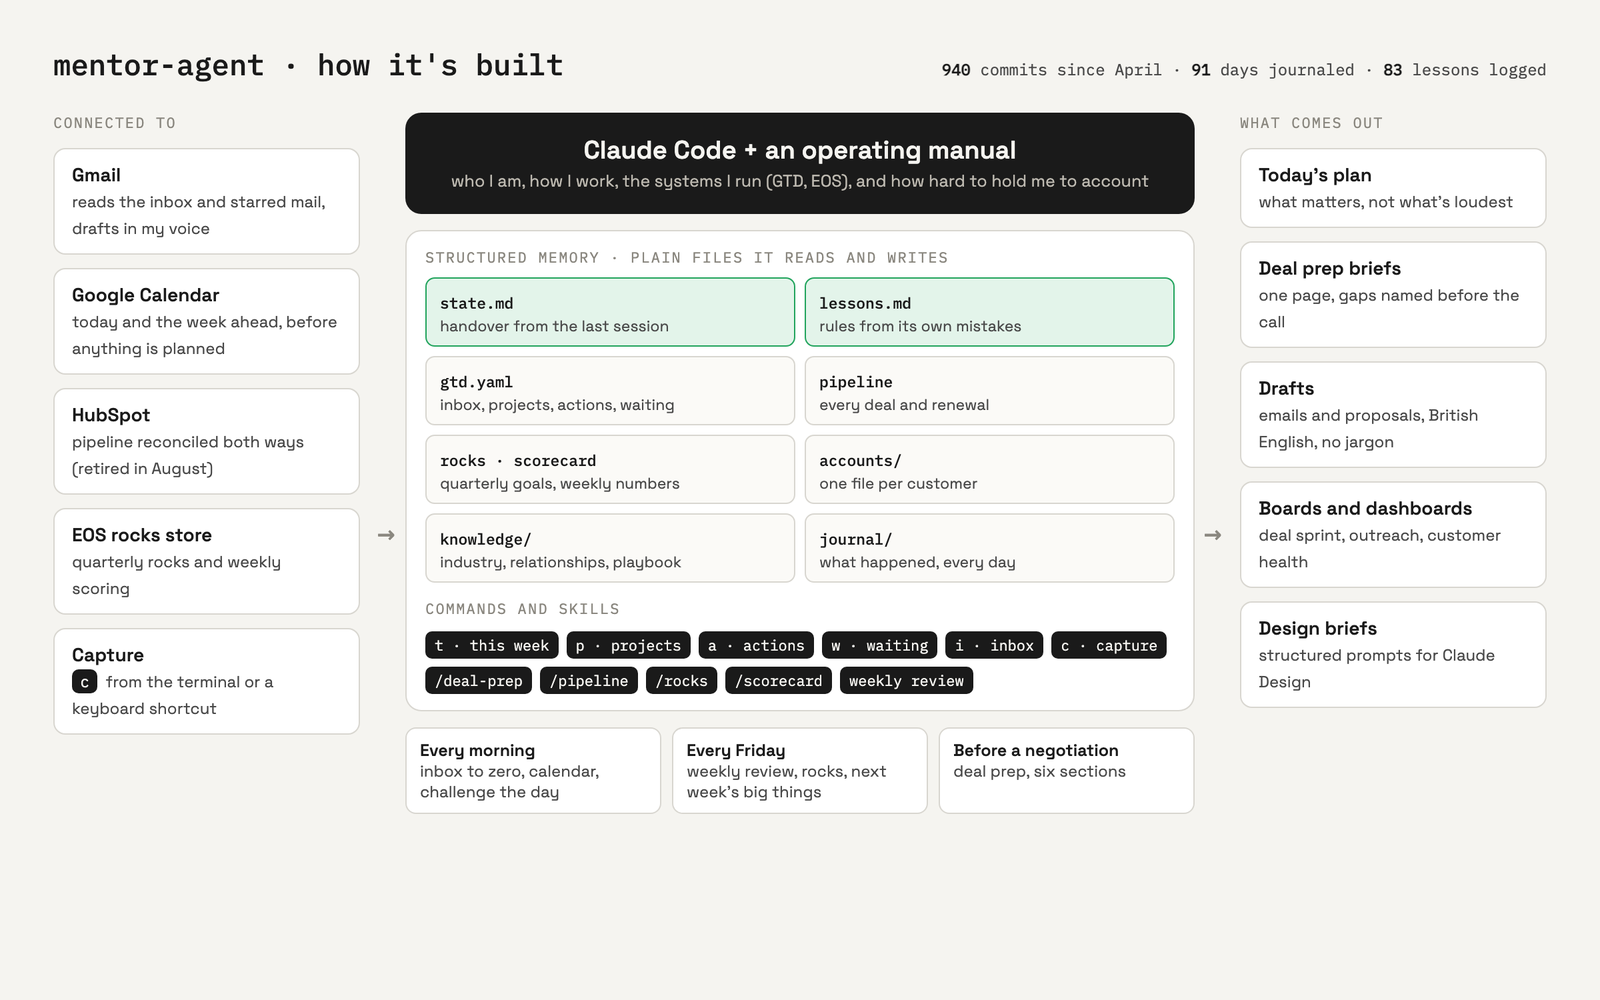
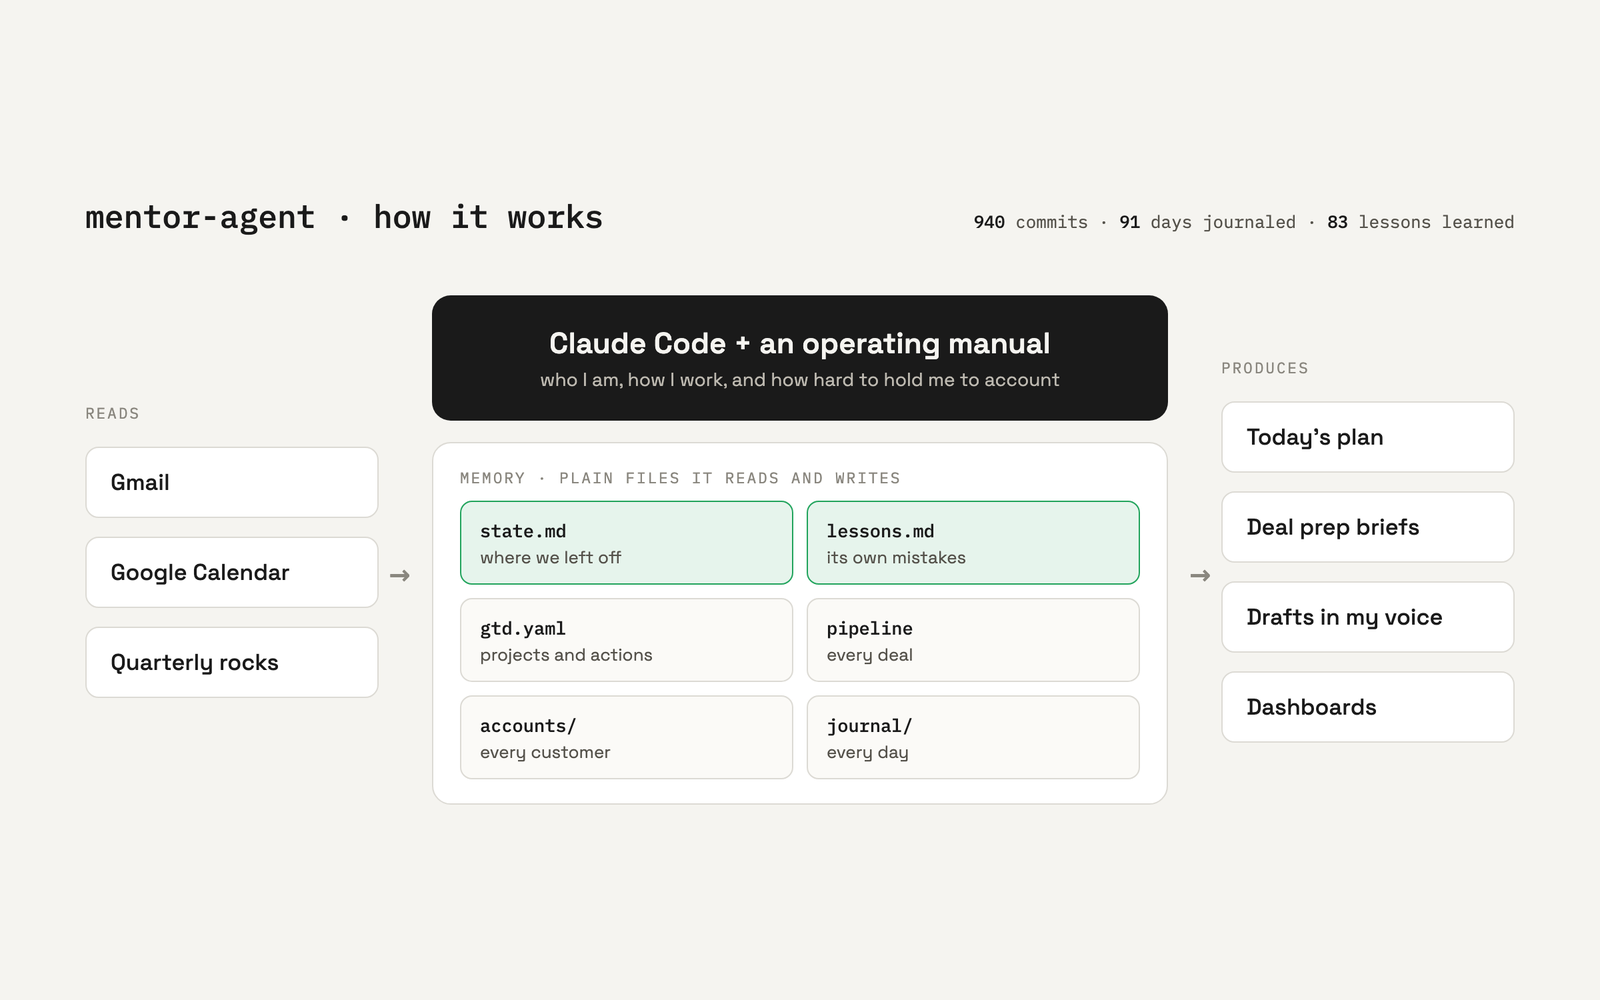
Round 4: numbered cards, lead-in, demo video and new screenshots
- Lead-in above the list, intro aside, GitHub link removed
- Cards numbered in ranked order, names in Space Grotesk 600
- More space between cards and a firmer card edge
- Featured card keeps its image at 16:10 with more room for the copy
- Booking engine: demo video pill on the card, embed as the last gallery slide
- Popup links styled as buttons and open in a new tab
- New screenshots for sorry-quick-q, health-tracker, booking engine,
  sonic-fighters and beyblade-clash; simpler mentor-agent diagram

diff --git a/index.html b/index.html
@@ -16,6 +16,8 @@
     --faint: #e2e0db;
     --border: #d3d1ca;
     --border-strong: #a9a69e;
+    --card-border: #cbc8c0;
+    --card-shadow: 0 1px 2px rgba(0,0,0,0.05), 0 4px 14px rgba(0,0,0,0.04);
     --green: #177a45;
     --amber: #8f6100;
     --red: #b83636;
@@ -39,6 +41,8 @@
       --faint: #2c2c2e;
       --border: #333336;
       --border-strong: #5c5c60;
+      --card-border: #3a3a3e;
+      --card-shadow: 0 1px 2px rgba(0,0,0,0.4);
       --green: #4cc583;
       --amber: #e5ab3a;
       --red: #e36b6b;
@@ -103,17 +107,23 @@
   }
   .header .meta a:hover { text-decoration-color: var(--text); }
 
-  .intro { max-width: 640px; margin-bottom: 64px; }
+  .intro { max-width: 640px; margin-bottom: 20px; }
   .intro p { font-size: 17px; color: var(--secondary); line-height: 1.7; }
   .intro p + p { margin-top: 16px; }
   .intro p:first-child { color: var(--text); }
+
+  .intro-aside { max-width: 640px; margin-bottom: 72px; font-size: 15px; font-style: italic; line-height: 1.6; color: var(--secondary); }
+
+  .lead-in { margin-bottom: 14px; }
+  .lead-in h2 { font-family: 'IBM Plex Mono', monospace; font-size: 22px; font-weight: 500; letter-spacing: -0.3px; line-height: 1.3; }
+  .lead-in p { font-size: 17px; color: var(--text); margin-top: 4px; }
 
   hr { border: none; border-top: 1px solid var(--faint); margin: 56px 0; }
 
   /* CARDS */
   .grid { display: grid; gap: 20px; }
   /* one ranked list: text left, screenshot right when there is one */
-  .collection { grid-template-columns: 1fr; gap: 12px; margin-bottom: 72px; }
+  .collection { grid-template-columns: 1fr; gap: 24px; margin-bottom: 72px; }
   .collection .card:not(.featured) { display: grid; grid-template-columns: minmax(0, 1fr) 280px; }
   .collection .card:not(.featured) .card-img { grid-column: 2; grid-row: 1; aspect-ratio: auto; min-height: 160px; border-left: 1px solid var(--faint); }
   .collection .card:not(.featured) .card-img img { position: absolute; inset: 0; object-position: center; }
@@ -122,15 +132,15 @@
     display: grid; grid-template-columns: minmax(0, 1fr) auto; grid-template-areas: "top foot" "strap foot";
     align-content: center; gap: 6px 32px; padding: 18px 24px;
   }
-  .collection .card:not(.featured) .card-top { grid-area: top; justify-content: flex-start; }
+  .collection .card:not(.featured) .card-top { grid-area: top; justify-content: flex-start; column-gap: 14px; }
   .collection .card:not(.featured) .card-strap { grid-area: strap; font-size: 17px; max-width: 60ch; }
   .collection .card:not(.featured) .card-foot { grid-area: foot; flex-direction: column; align-items: flex-end; justify-content: center; gap: 8px; margin: 0; padding: 0 0 0 24px; border-top: none; border-left: 1px solid var(--faint); }
 
   .card {
     background: var(--surface);
-    border: 1px solid var(--border);
+    border: 1px solid var(--card-border);
     border-radius: var(--radius);
-    box-shadow: var(--shadow);
+    box-shadow: var(--card-shadow);
     overflow: hidden;
     display: flex;
     flex-direction: column;
@@ -161,7 +171,9 @@
   }
   .card-body { padding: 18px 20px 16px; display: flex; flex-direction: column; gap: 10px; flex: 1; }
   .card-top { display: flex; align-items: center; justify-content: space-between; gap: 10px; flex-wrap: wrap; }
-  .card-name { font-family: 'IBM Plex Mono', monospace; font-size: 14px; font-weight: 500; display: flex; align-items: center; gap: 8px; }
+  .card-name { font-family: 'Space Grotesk', sans-serif; font-size: 21px; font-weight: 600; line-height: 1.2; letter-spacing: -0.3px; display: flex; align-items: baseline; gap: 10px; }
+  .card-num { font-family: 'IBM Plex Mono', monospace; font-size: 13px; font-weight: 500; color: var(--secondary); letter-spacing: 0; font-variant-numeric: tabular-nums; }
+  .card-name .emoji { font-size: 18px; align-self: center; }
   .card-strap { font-size: 16px; font-weight: 500; line-height: 1.45; color: var(--text); flex: 1; }
   .pills { display: flex; gap: 6px; flex-wrap: wrap; }
   .card-more { font-family: 'IBM Plex Mono', monospace; font-size: 12px; color: var(--secondary); text-decoration: underline; text-underline-offset: 4px; text-decoration-color: var(--border-strong); }
@@ -170,10 +182,13 @@
 
   /* featured: first card spans the row */
   .card.featured { grid-column: 1 / -1; flex-direction: row; }
-  .card.featured .card-img { flex: 0 0 56%; aspect-ratio: auto; min-height: 320px; }
-  .card.featured .card-body { padding: 28px 30px 22px; gap: 14px; }
-  .card.featured .card-strap { font-size: 24px; line-height: 1.3; flex: 0; }
-  .card.featured .card-outcome { font-size: 16px; color: var(--secondary); flex: 1; }
+  .card.featured .card-img { flex: 0 0 60%; aspect-ratio: 16 / 10; align-self: center; border-right: 1px solid var(--faint); }
+  .card.featured .card-body { padding: 36px 36px 28px; gap: 18px; }
+  .card.featured .card-top { flex-direction: column; align-items: flex-start; gap: 12px; }
+  .card.featured .card-name { font-size: 28px; }
+  .card.featured .card-strap { font-size: 26px; line-height: 1.3; flex: 0; margin-top: 8px; }
+  .card.featured .card-outcome { font-size: 17px; line-height: 1.55; color: var(--secondary); flex: 1; }
+  .card.featured .card-foot { padding-top: 20px; }
   .card.featured.no-img .card-strap { max-width: 34ch; }
   .card.featured.no-img .card-outcome { max-width: 60ch; }
 
@@ -200,6 +215,13 @@
   .pill.s-retired { color: var(--muted); }
   .pill.kind { border-color: transparent; background: var(--tag-bg); color: var(--secondary); font-weight: 400; }
   .pill.kind::before { display: none; }
+
+  .video-pill {
+    font-family: 'IBM Plex Mono', monospace; font-size: 11px; font-weight: 500; white-space: nowrap;
+    display: inline-flex; align-items: center; gap: 6px; padding: 2px 10px;
+    border-radius: 100px; background: var(--text); color: var(--bg); text-decoration: none;
+  }
+  .video-pill:hover { opacity: 0.85; }
 
   .tag { font-family: 'IBM Plex Mono', monospace; font-size: 12px; padding: 3px 10px; background: var(--tag-bg); border-radius: 100px; color: var(--secondary); }
 
@@ -287,7 +309,7 @@
 
   .popup-info { padding: 24px 30px 30px; display: flex; flex-direction: column; gap: 18px; }
   .popup-top { display: flex; align-items: center; gap: 12px; flex-wrap: wrap; }
-  .popup-name { font-family: 'IBM Plex Mono', monospace; font-size: 16px; font-weight: 500; display: flex; align-items: center; gap: 8px; }
+  .popup-name { font-family: 'Space Grotesk', sans-serif; font-size: 22px; font-weight: 600; letter-spacing: -0.3px; display: flex; align-items: center; gap: 8px; }
   .popup-info.no-gallery { padding-top: 28px; padding-right: 64px; }
   .popup-strap { font-size: 22px; font-weight: 500; line-height: 1.35; letter-spacing: -0.2px; max-width: 34ch; }
   .popup-bullets { list-style: none; display: flex; flex-direction: column; gap: 8px; }
@@ -298,7 +320,14 @@
   .popup-tags { display: flex; flex-wrap: wrap; gap: 6px; }
   .popup-meters { display: grid; grid-template-columns: repeat(3, 1fr); gap: 16px; padding-top: 16px; border-top: 1px solid var(--faint); }
   .popup-meters .meter-tip { font-family: 'IBM Plex Mono', monospace; font-size: 12px; color: var(--secondary); line-height: 1.45; margin-top: 2px; }
-  .popup-link { font-family: 'IBM Plex Mono', monospace; font-size: 13px; font-weight: 500; }
+  .popup-link {
+    align-self: flex-start; display: inline-flex; align-items: center; gap: 8px;
+    font-family: 'IBM Plex Mono', monospace; font-size: 13px; font-weight: 500; text-decoration: none;
+    padding: 11px 18px; border-radius: var(--radius-sm); background: var(--text); color: var(--bg);
+  }
+  .popup-link:hover { opacity: 0.85; }
+  .gallery-track > .slide-video { flex: 0 0 100%; width: 100%; height: 100%; background: #000; }
+  .slide-video iframe { width: 100%; height: 100%; border: 0; display: block; }
 
   .loading { text-align: center; padding: 80px 0; color: var(--muted); font-family: 'IBM Plex Mono', monospace; font-size: 13px; }
 
@@ -312,7 +341,8 @@
     .collection .card:not(.featured) .card-body { grid-template-columns: minmax(0, 1fr); grid-template-areas: "top" "strap" "foot"; }
     .collection .card:not(.featured) .card-foot { flex-direction: row; align-items: flex-end; justify-content: space-between; padding: 10px 0 0; border-left: none; border-top: 1px solid var(--faint); }
     .card.featured { flex-direction: column; }
-    .card.featured .card-img { flex: none; aspect-ratio: 16 / 10; min-height: 0; }
+    .card.featured .card-img { flex: none; aspect-ratio: 16 / 10; min-height: 0; border-right: none; border-bottom: 1px solid var(--faint); }
+    .card.featured .card-top { flex-direction: row; align-items: center; }
   }
   @media (max-width: 640px) {
     body { padding: 0 16px; }
@@ -320,13 +350,17 @@
     .header h1 { font-size: 24px; }
     .intro { margin-bottom: 48px; }
     .intro p { font-size: 16px; }
+    .intro-aside { margin-bottom: 56px; }
+    .collection { gap: 16px; }
+    .card-name { font-size: 19px; }
+    .card.featured .card-name { font-size: 22px; }
     .collection .card:not(.featured) { grid-template-columns: minmax(0, 1fr); }
     .collection .card:not(.featured) .card-img { grid-column: 1; grid-row: 1; aspect-ratio: 16 / 10; min-height: 0; border-left: none; }
     .collection .card:not(.featured) .card-img img { position: absolute; inset: 0; object-position: center; }
   .collection .card:not(.featured) .card-body { grid-row: 2; display: flex; padding: 16px 18px 14px; gap: 8px; }
     .collection .card:not(.featured) .card-foot { flex-direction: row; align-items: flex-end; justify-content: space-between; padding: 10px 0 0; border-left: none; border-top: 1px solid var(--faint); }
-    .card.featured .card-strap { font-size: 20px; }
-    .card.featured .card-body { padding: 18px 20px 16px; }
+    .card.featured .card-strap { font-size: 21px; margin-top: 0; }
+    .card.featured .card-body { padding: 20px 20px 18px; gap: 12px; }
     .card-foot { flex-wrap: wrap; }
     .popup { padding: 0; }
     .popup-panel { max-width: none; height: 100%; max-height: none; border-radius: 0; border: none; }
@@ -401,9 +435,12 @@ function meters(p) {
     </div>`).join('')}</div>`;
 }
 
-function pills(p) {
+function pills(p, { withVideo = false } = {}) {
   const kind = p.tag ? `<span class="pill kind">${esc(p.tag)}</span>` : '';
-  return `<span class="pills">${pill(p)}${kind}</span>`;
+  const video = withVideo && isVideo(p.link)
+    ? `<a class="video-pill" href="${esc(p.link.url)}" target="_blank" rel="noopener">▶ demo video</a>`
+    : '';
+  return `<span class="pills">${pill(p)}${kind}${video}</span>`;
 }
 
 function pill(p) {
@@ -415,8 +452,13 @@ function cardAttrs(p, extra) {
   return `class="card ${extra}" role="button" tabindex="0" data-id="${esc(p.id)}" aria-label="${esc(p.name)}: ${esc(p.strapline)}. Open details"`;
 }
 
-function nameWithEmoji(p) {
-  return `<span class="card-name"><span class="emoji" aria-hidden="true">${p.emoji}</span>${esc(p.name)}</span>`;
+function nameWithEmoji(p, i) {
+  const num = String(i + 1).padStart(2, '0');
+  return `<span class="card-name"><span class="card-num">${num}</span><span class="emoji" aria-hidden="true">${p.emoji}</span>${esc(p.name)}</span>`;
+}
+
+function isVideo(link) {
+  return !!(link && /youtu\.?be/.test(link.url));
 }
 
 function renderCard(p, i) {
@@ -430,7 +472,7 @@ function renderCard(p, i) {
     <article ${cardAttrs(p, (featured ? 'featured ' : '') + (imgs.length ? '' : 'no-img'))}>
       ${img}
       <div class="card-body">
-        <div class="card-top">${nameWithEmoji(p)}${pills(p)}</div>
+        <div class="card-top">${nameWithEmoji(p, i)}${pills(p, { withVideo: true })}</div>
         <p class="card-strap">${esc(p.strapline || p.description)}</p>
         ${featured && p.outcome ? `<p class="card-outcome">${esc(p.outcome)}</p>` : ''}
         <div class="card-foot">${meters(p)}<span class="card-more">details</span></div>
@@ -459,13 +501,15 @@ function render(data) {
       <div class="meta">
         <span>${esc(s.name)} · ${esc(s.role)}</span>
         <span><a href="mailto:${esc(s.email)}">${esc(s.email)}</a></span>
-        <span><a href="${esc(s.github)}">github</a></span>
+        ${s.github ? `<span><a href="${esc(s.github)}">github</a></span>` : ''}
       </div>
     </header>
 
     <div class="intro">${data.intro.split(/\n\n+/).map(para => `<p>${esc(para)}</p>`).join('')}</div>
+    ${data.introAside ? `<p class="intro-aside">${esc(data.introAside)}</p>` : ''}
 
-    <section aria-label="Projects">
+    <section aria-labelledby="lead-in-title">
+      ${data.leadIn ? `<div class="lead-in"><h2 id="lead-in-title">${esc(data.leadIn.title)}</h2>${data.leadIn.line ? `<p>${esc(data.leadIn.line)}</p>` : ''}</div>` : ''}
       ${meterKey(data.meterKey)}
       <div class="grid collection">${data.projects.map(renderCard).join('')}</div>
     </section>
@@ -478,34 +522,42 @@ function render(data) {
 
 /* ---------- popup ---------- */
 
+function slideCount(p) {
+  return imagesOf(p).length + (p.video ? 1 : 0);
+}
+
 function renderPopup(p) {
   const imgs = imagesOf(p);
+  const total = slideCount(p);
   let galleryHtml;
-  if (!imgs.length) {
+  if (!total) {
     galleryHtml = '';
   } else {
-    const multi = imgs.length > 1;
+    const multi = total > 1;
+    // the video iframe is only created when its slide is shown, and removed when you leave it
+    const video = p.video ? `<div class="slide-video" data-src="${esc(p.video)}" aria-label="${esc(p.name)} demo video"></div>` : '';
     galleryHtml = `
       <div class="gallery" id="gallery" aria-roledescription="carousel" aria-label="${esc(p.name)} screenshots">
         <div class="gallery-track" id="gallery-track">
           ${imgs.map((src, i) => `<img src="${esc(src)}" alt="${esc(p.name)} screenshot ${i + 1} of ${imgs.length}" draggable="false">`).join('')}
+          ${video}
         </div>
         ${multi ? `
-          <button class="gallery-arrow prev" data-step="-1" aria-label="Previous screenshot">‹</button>
-          <button class="gallery-arrow next" data-step="1" aria-label="Next screenshot">›</button>
-          <div class="gallery-dots">${imgs.map((_, i) => `<button class="gallery-dot" data-go="${i}" aria-label="Screenshot ${i + 1}"></button>`).join('')}</div>` : ''}
+          <button class="gallery-arrow prev" data-step="-1" aria-label="Previous slide">‹</button>
+          <button class="gallery-arrow next" data-step="1" aria-label="Next slide">›</button>
+          <div class="gallery-dots">${Array.from({ length: total }, (_, i) => `<button class="gallery-dot" data-go="${i}" aria-label="${p.video && i === total - 1 ? 'Demo video' : `Screenshot ${i + 1}`}"></button>`).join('')}</div>` : ''}
       </div>`;
   }
 
   const body = p.bullets && p.bullets.length
     ? `<ul class="popup-bullets">${p.bullets.map(b => `<li>${esc(b)}</li>`).join('')}</ul>`
     : (p.description ? `<p class="popup-desc">${esc(p.description)}</p>` : '');
-  const link = p.link ? `<a class="popup-link" href="${esc(p.link.url)}">${esc(p.link.label)}</a>` : '';
+  const link = p.link ? `<a class="popup-link" href="${esc(p.link.url)}" target="_blank" rel="noopener">${isVideo(p.link) ? '▶ ' : ''}${esc(p.link.label)}</a>` : '';
 
   return `
     ${galleryHtml}
-    <div class="popup-info${imgs.length ? '' : ' no-gallery'}">
-      <div class="popup-top"><span class="popup-name" id="popup-name">${imgs.length ? '' : `<span class="emoji" aria-hidden="true">${p.emoji}</span>`}${esc(p.name)}</span>${pills(p)}</div>
+    <div class="popup-info${total ? '' : ' no-gallery'}">
+      <div class="popup-top"><span class="popup-name" id="popup-name">${total ? '' : `<span class="emoji" aria-hidden="true">${p.emoji}</span>`}${esc(p.name)}</span>${pills(p)}</div>
       <p class="popup-strap">${esc(p.strapline)}</p>
       ${body}
       ${p.outcome ? `<p class="popup-outcome">${esc(p.outcome)}</p>` : ''}
@@ -525,7 +577,7 @@ function openPopup(id, { updateHash = true } = {}) {
   if (!p) return;
   lastFocus = document.activeElement;
   document.getElementById('popup-body').innerHTML = renderPopup(p);
-  gallery = { index: 0, count: imagesOf(p).length };
+  gallery = { index: 0, count: slideCount(p) };
   setSlide(0);
   const popup = document.getElementById('popup');
   popup.classList.add('active');
@@ -543,6 +595,7 @@ function closePopup() {
   popup.classList.remove('active');
   popup.setAttribute('aria-hidden', 'true');
   document.body.style.overflow = '';
+  document.getElementById('popup-body').innerHTML = ''; // stops any playing video
   history.replaceState(null, '', location.pathname + location.search);
   if (lastFocus) lastFocus.focus({ preventScroll: true });
 }
@@ -551,7 +604,17 @@ function setSlide(i) {
   if (!gallery.count) return;
   gallery.index = (i + gallery.count) % gallery.count;
   const track = document.getElementById('gallery-track');
-  if (track) track.style.transform = `translateX(-${gallery.index * 100}%)`;
+  if (track) {
+    track.style.transform = `translateX(-${gallery.index * 100}%)`;
+    [...track.children].forEach((slide, n) => {
+      if (!slide.classList.contains('slide-video')) return;
+      if (n === gallery.index && !slide.firstChild) {
+        slide.innerHTML = `<iframe src="${esc(slide.dataset.src)}" title="Demo video" allow="accelerometer; encrypted-media; gyroscope; picture-in-picture; fullscreen" allowfullscreen loading="lazy"></iframe>`;
+      } else if (n !== gallery.index) {
+        slide.innerHTML = '';
+      }
+    });
+  }
   document.querySelectorAll('.gallery-dot').forEach((d, n) => d.setAttribute('aria-current', n === gallery.index ? 'true' : 'false'));
 }
 
@@ -563,10 +626,12 @@ function openFromHash() {
 function wireUp() {
   const app = document.getElementById('app');
   app.addEventListener('click', e => {
+    if (e.target.closest('a')) return;
     const card = e.target.closest('.card');
     if (card) openPopup(card.dataset.id);
   });
   app.addEventListener('keydown', e => {
+    if (e.target.closest('a')) return;
     const card = e.target.closest('.card');
     if (card && (e.key === 'Enter' || e.key === ' ')) { e.preventDefault(); openPopup(card.dataset.id); }
   });

diff --git a/BRIEF-sep-2026.md b/BRIEF-sep-2026.md
@@ -243,3 +243,38 @@ Update its bullets to match the diagram: connected to Gmail, Calendar and the EO
 ### Waiting on Andy
 - **health-tracker and investment-agent screenshots:** real personal data or dummy? Don't add new images for these until he says.
 - Hotel booking engine screenshots.
+
+---
+
+## 11. Round 3 additions (17-Sep, later)
+Already set in `projects.json` by the mentor-agent session:
+- **health-tracker** `images`: dashboard, charts, log (real data, Andy's choice)
+- **hotel booking engine** `images`: 4 stills from the Feb-2026 dev-team demo, plus `link` → the YouTube demo (unlisted) and an `outcome` noting it has moved on since
+- **investment-agent**: unchanged (keep the existing screenshot)
+
+To build:
+1. **Make the demo video prominent on the booking engine card**, not just a text link in the popup. On the card, show a small `▶ demo video` pill that opens the YouTube link in a new tab. In the popup, make the link look like a button. Open in a new tab with `rel="noopener"`.
+2. Every `popup-link` should open in a new tab.
+3. Optional: a YouTube embed (`https://www.youtube-nocookie.com/embed/aS_sGYAVNNQ`) as the last gallery item for the booking engine. Only do this if it's simple in the existing gallery, and fall back to the link.
+
+## 12. Round 4: signposting and breathing room (17-Sep, afternoon)
+
+**Already done in `projects.json` by the mentor-agent session. Don't redo:**
+- New straplines for mentor-agent (IQ 140 line back, with "Not a chatbot…" as the outcome), sorry-quick-q, investment-agent (plus new bullets), fitness-mentor, health-tracker, zenbox, sonic-fighters, wordle-solver and the hotel booking engine
+- Descriptions refreshed for health-tracker (no drinking emphasis), fitness-mentor and wordle-solver
+- **realm-raiders and fitness-tracker removed**
+- A simpler system diagram replaced `images/mentor-agent-0-system.png`
+- `images/sorry-quick-q-1.png` added (child's name blurred)
+- More screenshots are being added to `images/` (sonic, beyblade, maths, wordle, fitness-mentor). Wire them in when they exist; the file names follow `<project>-1.png`, `-2.png`.
+
+**To build (use `frontend-design`):**
+1. **A lead-in above the grid.** A short heading and one line: `things I've built` / `Tap any card to see how it works, with screenshots.` Visible, not grey.
+2. **Number the cards** 01, 02, 03… in array order. The order is deliberate (strongest first), so the numbers carry meaning. Small monospace number above or beside the name.
+3. **Bolder project names.** Set the name in the sans (Space Grotesk) at 600 weight, noticeably larger than now. Keep lower-case if it still reads as a name, but it must be the clear anchor of each card.
+4. **More separation between cards.** A larger grid gap (at least 24px desktop, 16px mobile) and a slightly firmer card edge (border or shadow) so each app reads as its own object.
+5. **The featured mentor-agent card needs to breathe.** Give the image more room, and give the strapline and outcome more whitespace. Don't crowd the meters.
+6. Section 11 items (demo video pill on the booking engine card, button-style popup links in a new tab, optional YouTube embed) are still to do.
+7. Check phone layout at 390px after all of the above.
+8. **Remove the GitHub link** from the header. Keep the email address only. (Delete `site.github` from projects.json and stop rendering it.)
+9. **Add a light aside directly under the intro**, in a smaller, quieter style than the intro (italic or monospace, not grey-on-grey):
+   *And, of course, this website was built in a couple of hours with a dollop of vision and a few good prompts.*
